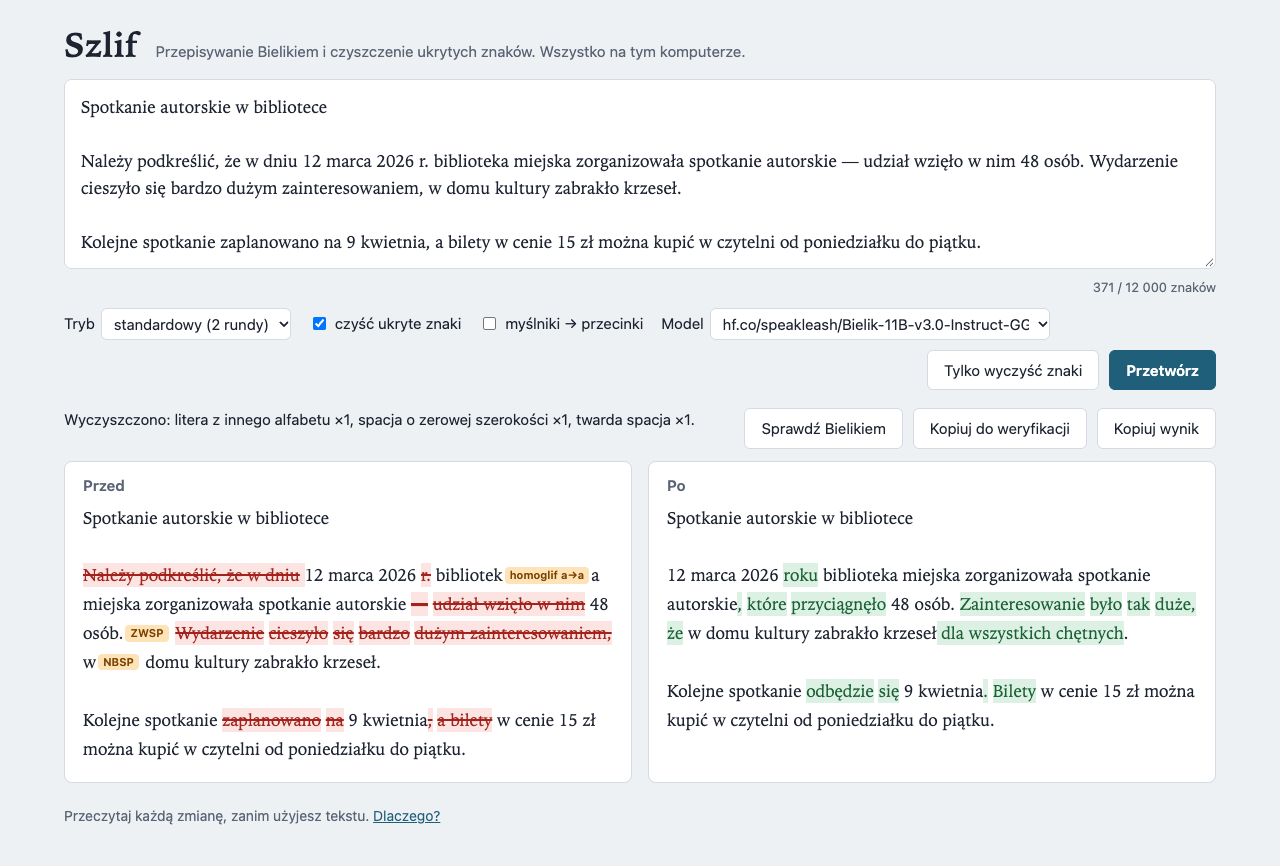
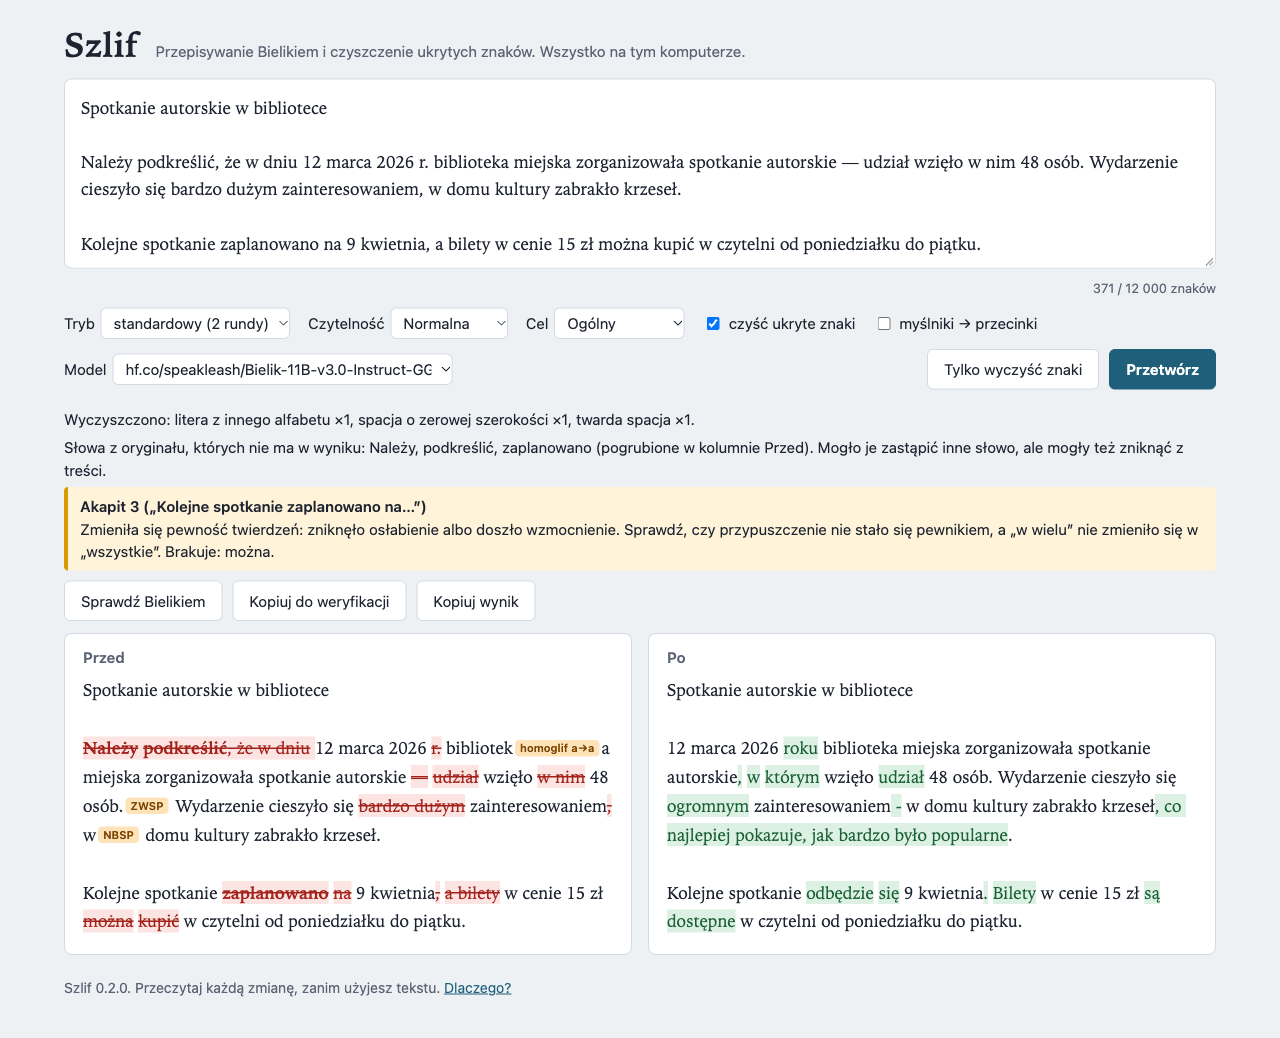
docs: new screenshots for 0.2.0 (style lists, version in the footer, a real run where the check finds an addition)

diff --git a/README.md b/README.md
@@ -140,7 +140,11 @@ Po przetworzeniu kliknij **Sprawdź Bielikiem**. Model wybrany na liście **Mode
 
 ![Panel „Sprawdzenie sensu” nad kolumnami Przed i Po](docs/zrzuty/3-sprawdzenie.png)
 
-Ten zrzut to prawdziwy przebieg i dobry przykład, dlaczego czytasz sam. Bielik uznał oba akapity za „BEZ ZMIAN”, choć w akapicie 2 dopisał od siebie „dla wszystkich chętnych” i zmienił „bardzo duże zainteresowanie” na zdanie przyczynowe („tak duże, że”). Strażnik też tego nie zgłosił, bo dopisek jest krótki i nie zawiera liczb.
+Ten zrzut to prawdziwy przebieg (wersja 0.2.0) i dobry przykład, dlaczego czytasz sam:
+
+- **Akapit 2:** Bielik dopisał od siebie „co najlepiej pokazuje, jak bardzo było popularne”. Strażnik tego nie zgłosił, bo dopisek nie ma liczb, a akapit urósł za mało, żeby przekroczyć próg długości. Znalazło go dopiero „Sprawdź Bielikiem”.
+- **Akapit 3:** ostrzeżenie strażnika („Brakuje: można”) to fałszywy alarm, bo „można kupić” → „są dostępne” nie zmienia pewności.
+- **Bez gwarancji:** w przebiegu tego samego tekstu na wersji 0.1.0 było odwrotnie. Bielik dopisał wtedy „dla wszystkich chętnych”, a sprawdzając, uznał oba akapity za „BEZ ZMIAN”.
 
 ### Na stronie: „Kopiuj do weryfikacji”
 
